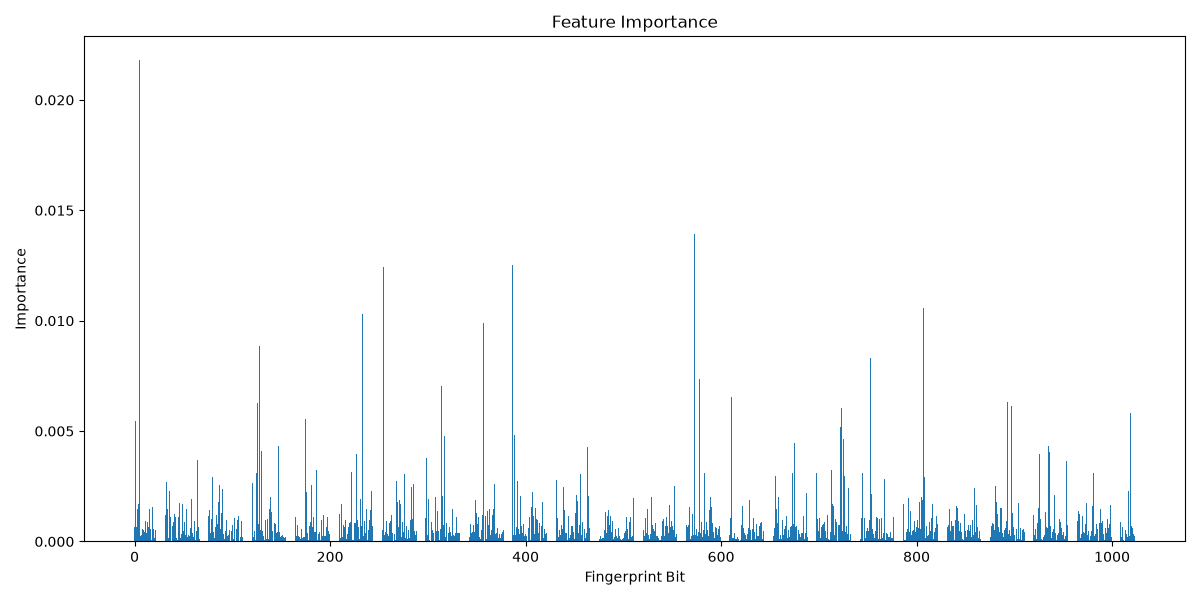
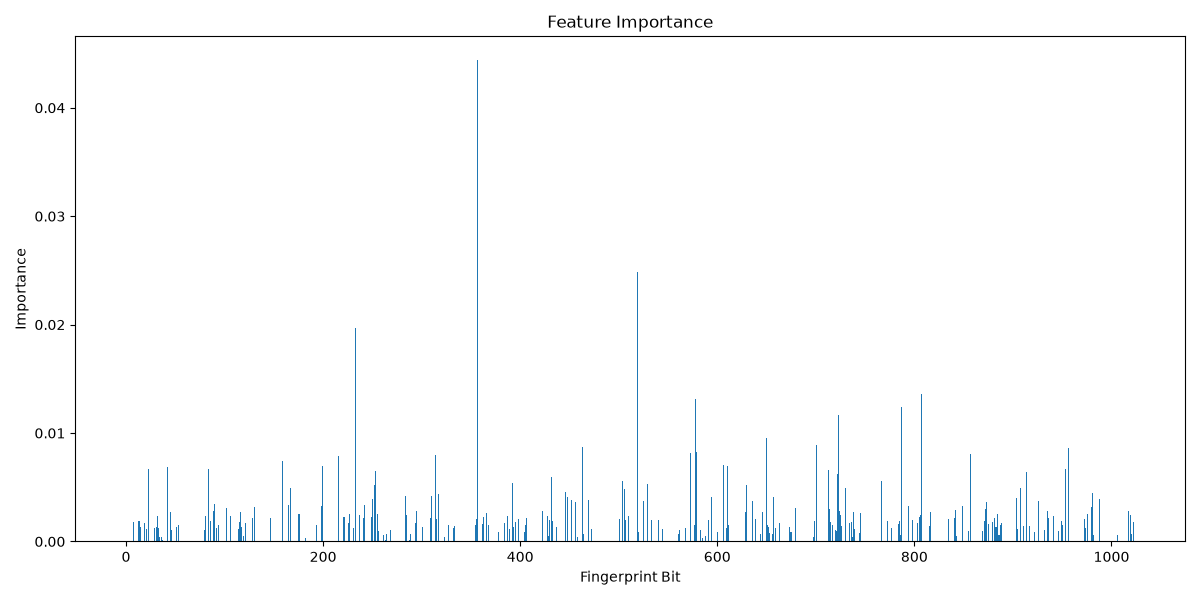
Implemented XGBoost classifier for BBBP prediction

diff --git a/src/classical_models/xgboost_classifier.py b/src/classical_models/xgboost_classifier.py
@@ -1,0 +1,102 @@
+from xgboost import XGBClassifier
+
+from src.utils.data_utils import load_data, split_dataset
+
+from src.utils.evaluation import (
+    calculate_accuracy,
+    print_confusion_matrix,
+    print_classification_report,
+    calculate_auc
+)
+
+from src.utils.visualization import (
+    plot_feature_importance,
+    plot_top_features,
+    plot_accuracy,
+    plot_auc
+)
+
+def train_model(X_train, y_train):
+
+    model = XGBClassifier(
+
+        n_estimators=100,
+
+        learning_rate=0.1,
+
+        max_depth=6,
+
+        random_state=42,
+
+        eval_metric="logloss"
+
+    )
+
+    model.fit(X_train, y_train)
+
+    return model
+
+def make_predictions(model, X_test):
+
+    predictions = model.predict(X_test)
+
+    return predictions
+
+def get_feature_importance(model):
+
+    importance = model.feature_importances_
+
+    return importance
+
+import os
+import joblib
+
+def save_model(model):
+
+    os.makedirs("../../results/models", exist_ok=True)
+
+    joblib.dump(
+        model,
+        "../../results/models/xgboost_model.pkl"
+    )
+
+    print("Model saved successfully!")
+
+def main():
+
+    X, y = load_data()
+
+    X_train, X_test, y_train, y_test = split_dataset(X, y)
+
+    model = train_model(X_train, y_train)
+
+    predictions = make_predictions(model, X_test)
+
+    accuracy = calculate_accuracy(y_test, predictions)
+
+    auc = calculate_auc(model, X_test, y_test)
+
+    importance = get_feature_importance(model)
+
+    plot_feature_importance(importance)
+
+    plot_top_features(importance)
+
+    save_model(model)
+
+    print("XGBoost Model Trained Successfully!")
+
+    print(f"\nAccuracy: {accuracy:.4f}")
+
+    print_confusion_matrix(y_test, predictions)
+
+    print_classification_report(y_test, predictions)
+
+    print(f"ROC-AUC Score: {auc:.4f}")
+
+
+if __name__ == "__main__":
+    main()
+
+
+
